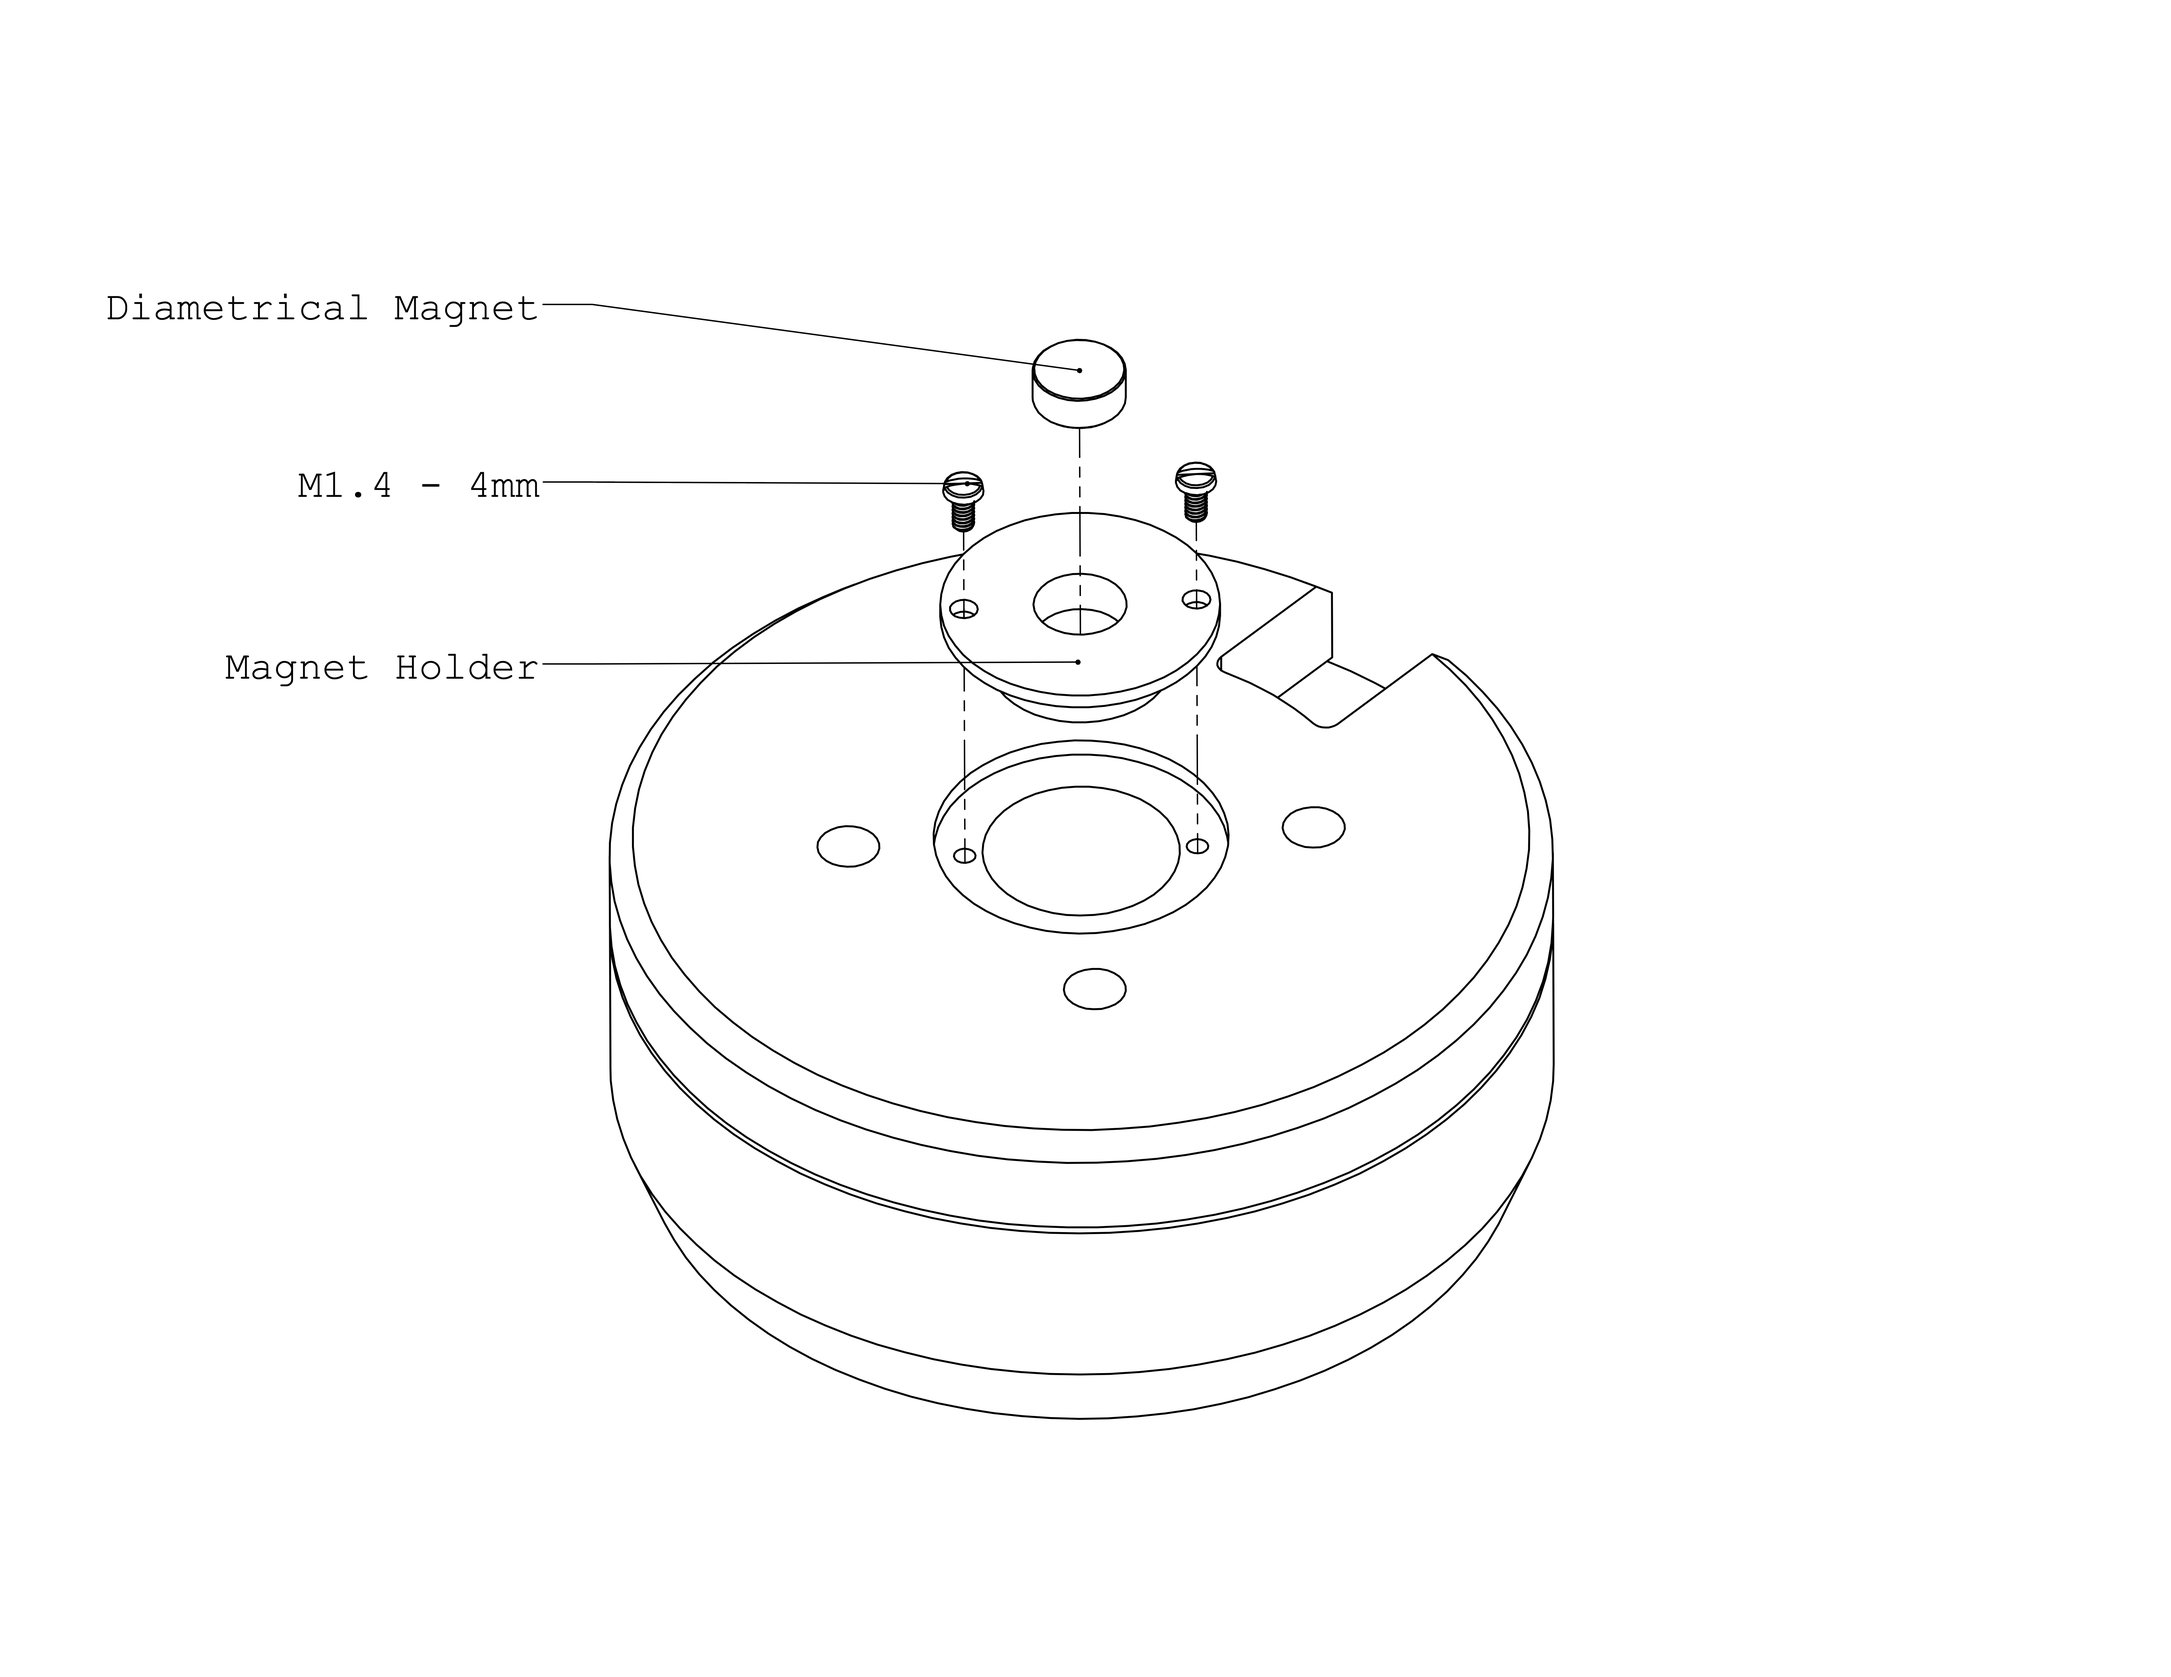
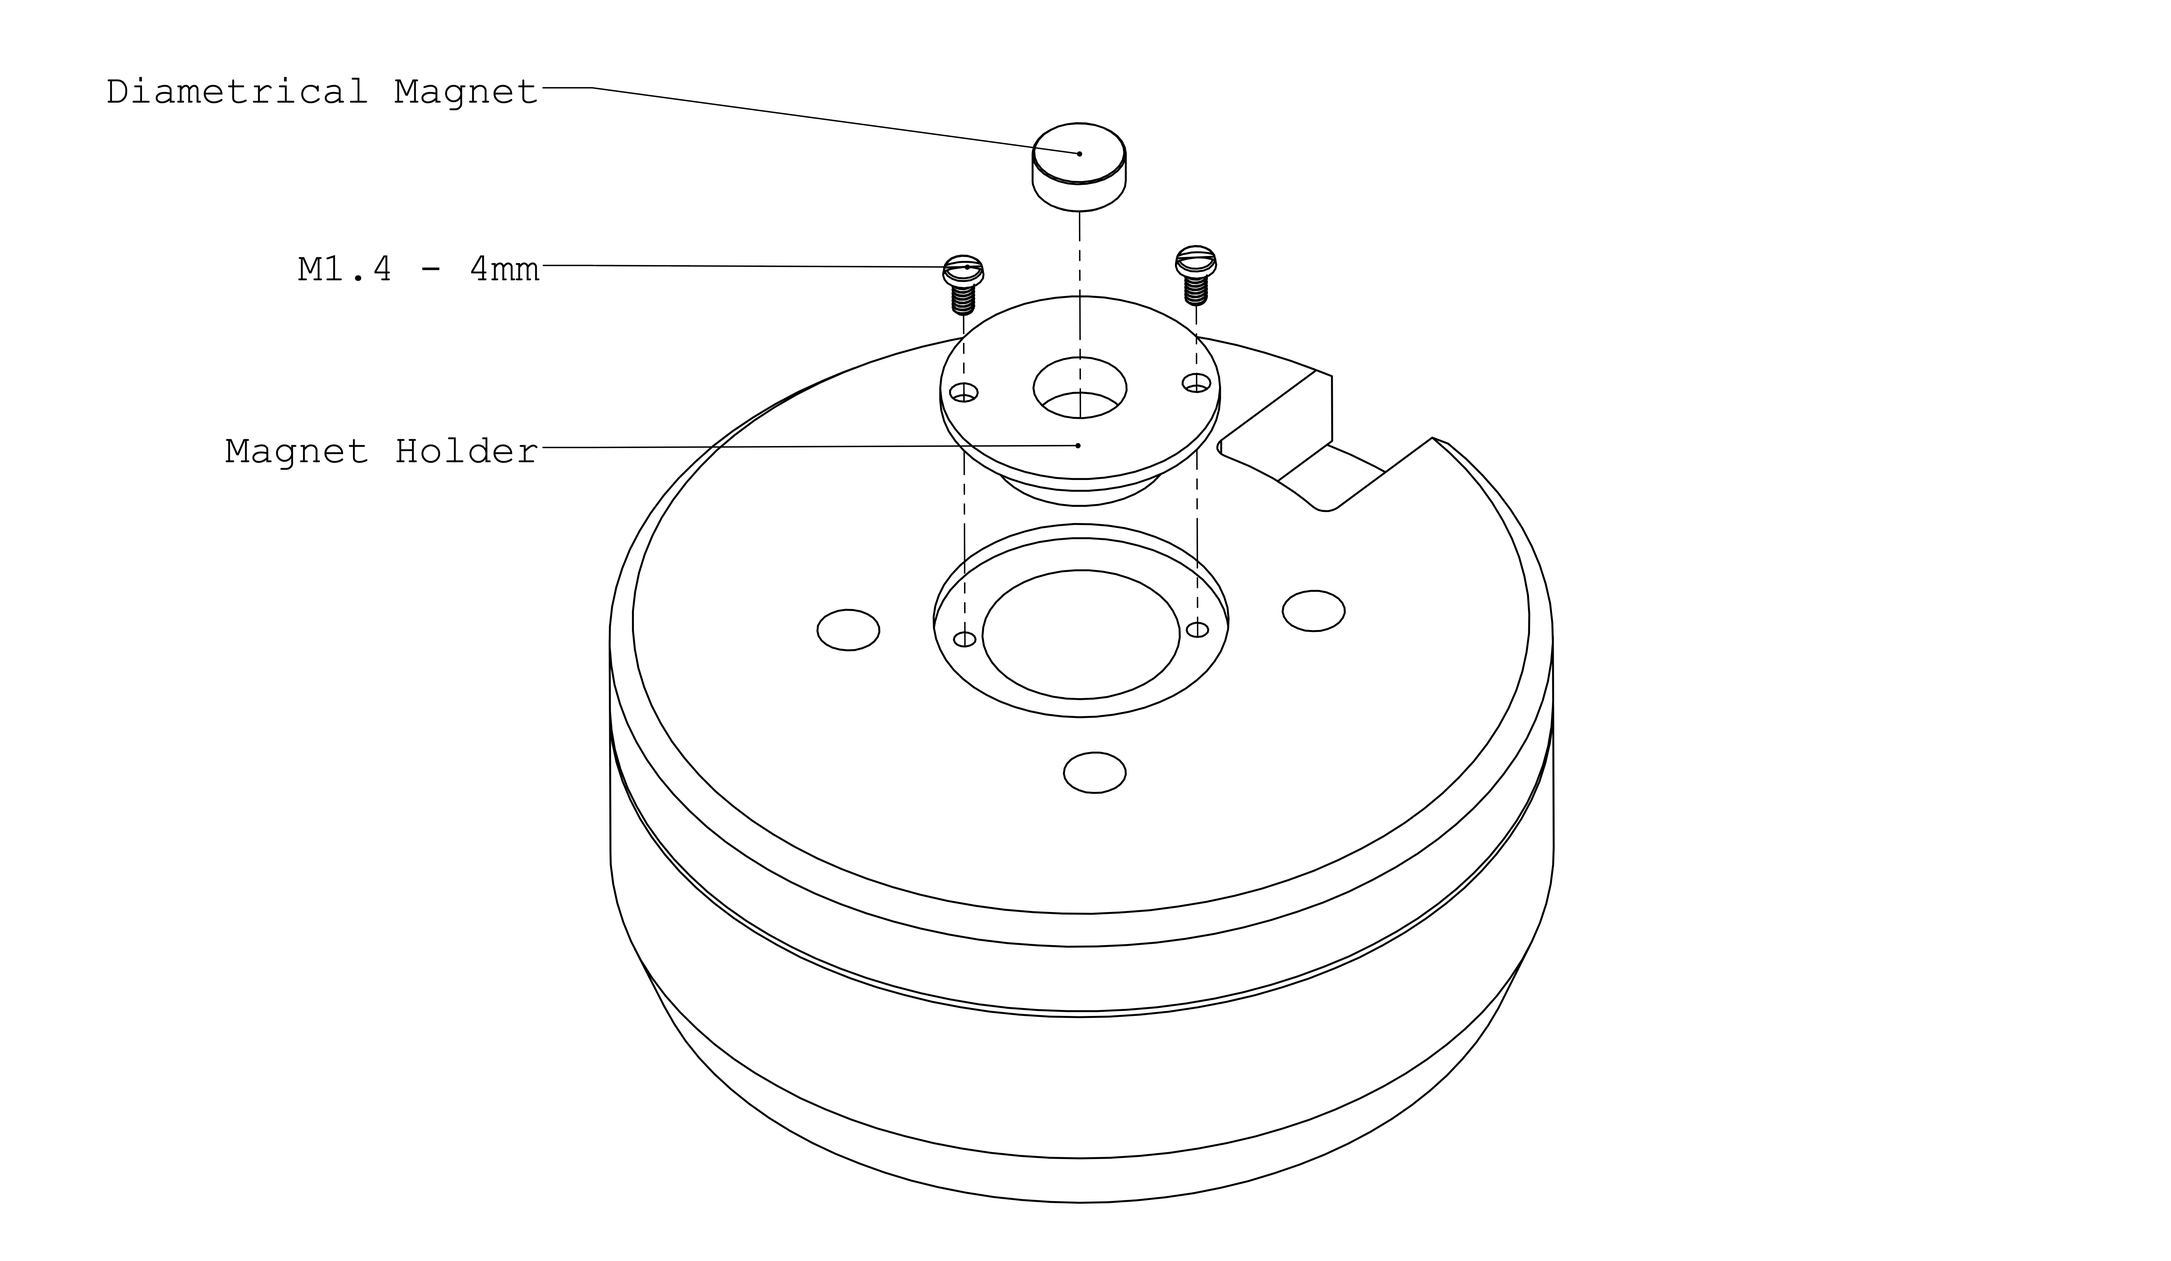
add gripper shell, update image margins

diff --git a/README.md b/README.md
@@ -36,7 +36,7 @@ Bill of Materials
 
 ### Part III. Gripper Shell
 
-
+![gripper_shell](images/gripper_shell.png)
 
 ### Part IV. Wiring
 
